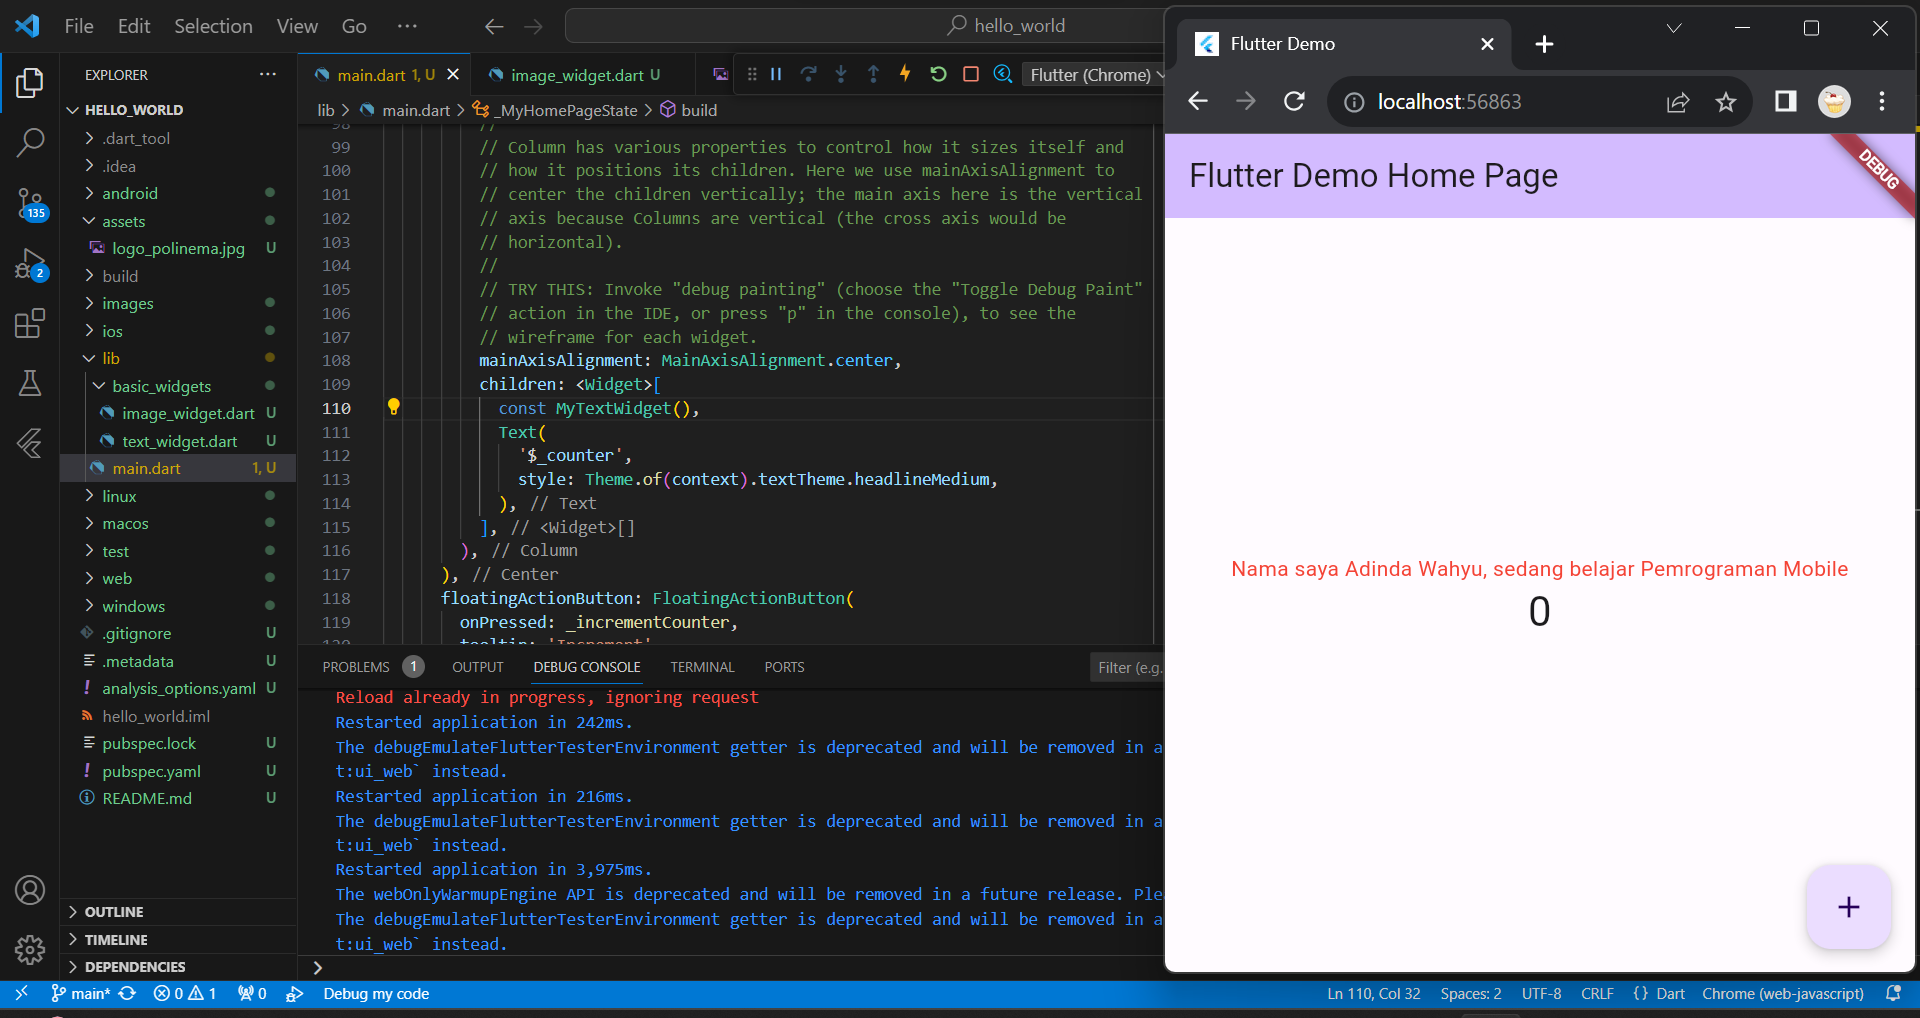
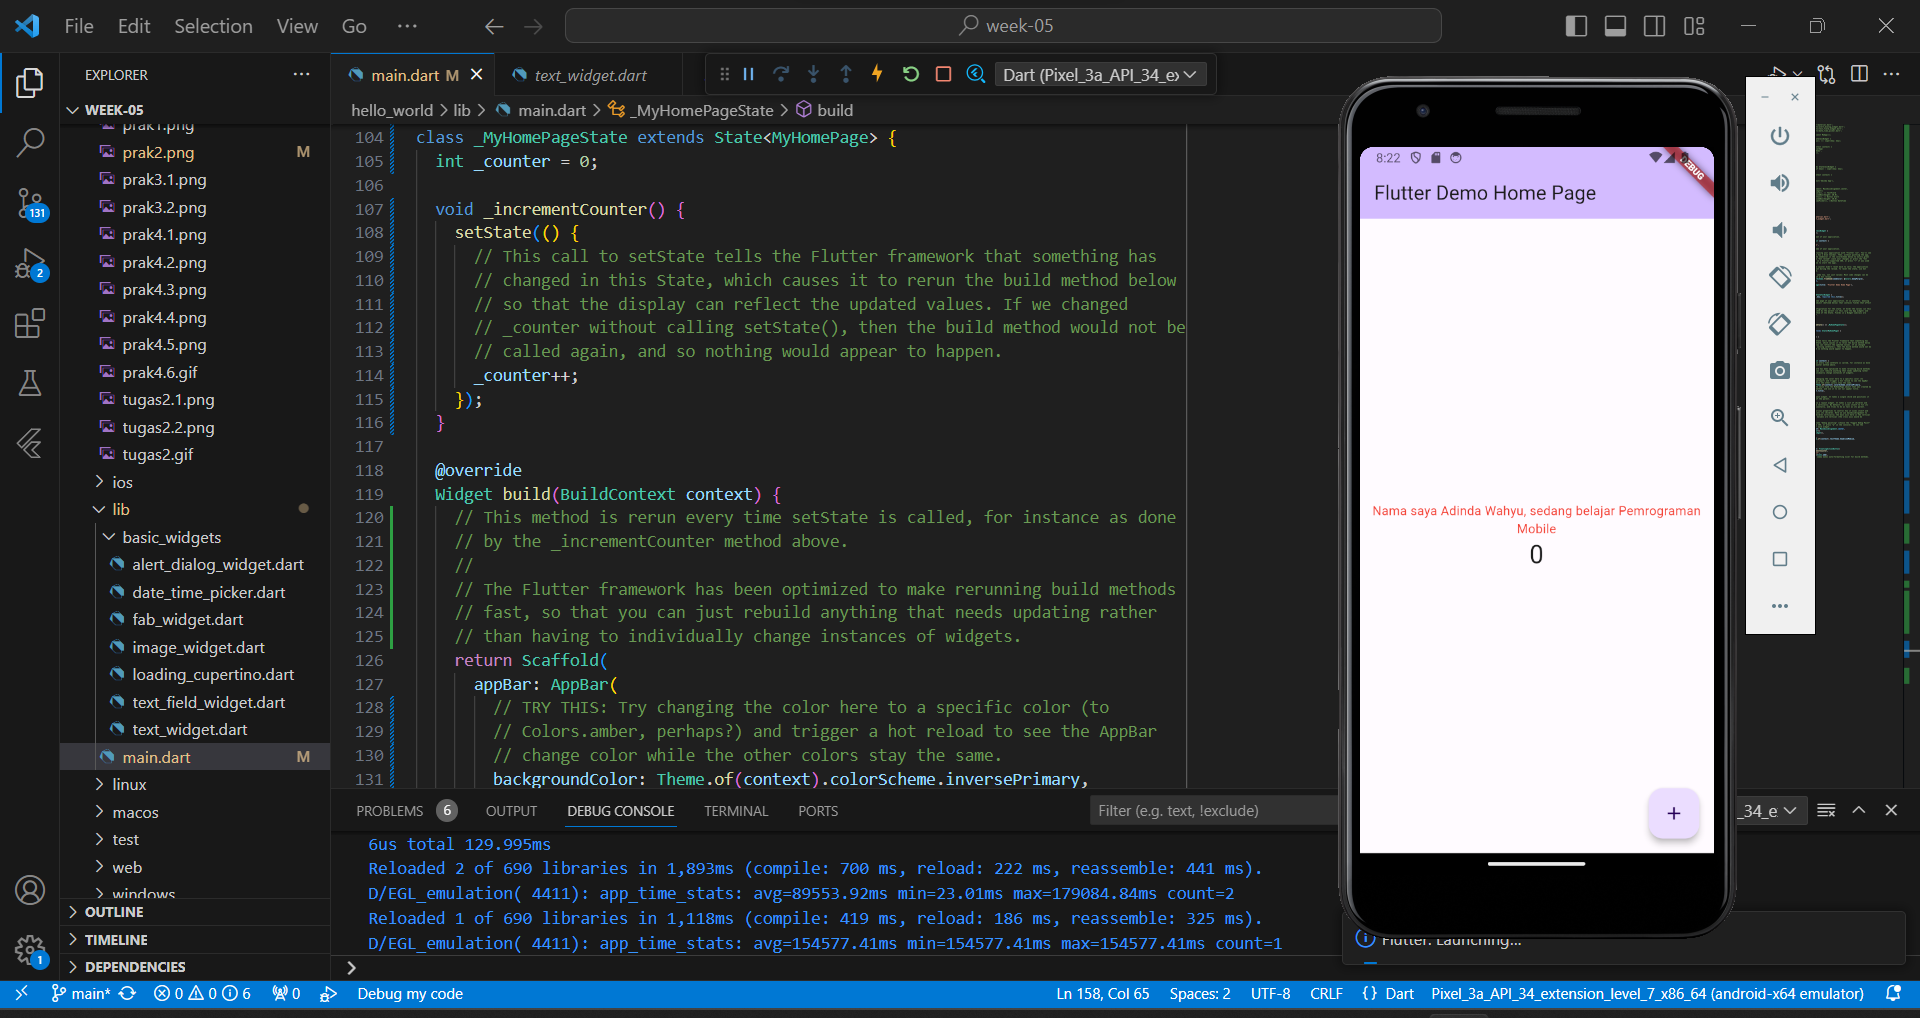
baru

diff --git a/week-05/hello_world/lib/main.dart b/week-05/hello_world/lib/main.dart
@@ -1,45 +1,115 @@
-import 'package:flutter/material.dart';
-import 'basic_widgets/alert_dialog_widget.dart';
-import 'basic_widgets/text_field_widget.dart';
-import 'basic_widgets/date_time_picker.dart';
+// import 'package:flutter/material.dart';
+// // import 'basic_widgets/alert_dialog_widget.dart';
+// // import 'basic_widgets/text_field_widget.dart';
+// // import 'basic_widgets/date_time_picker.dart';
 
-void main() => runApp(const MyApp());
+// void main() => runApp(const MyApp());
+
+// class MyApp extends StatelessWidget {
+//   const MyApp({Key? key}); //: super(key: key);
+
+//   @override
+//   Widget build(BuildContext context) {
+//     return const MaterialApp(
+//       title: 'Flutter Demo',
+//       home: MyHomePage(),
+//     );
+//   }
+// }
+
+// // test
+
+// class MyHomePage extends StatelessWidget {
+//   const MyHomePage({Key? key}) : super(key: key);
+
+//   @override
+//   Widget build(BuildContext context) {
+//     return Scaffold(
+//       appBar: AppBar(
+//         title: const Text('Adinda App'),
+//       ),
+//       body: Center(
+//         child: Column(
+//           mainAxisAlignment: MainAxisAlignment.center,
+//           children: <Widget>[
+//             // MyTextField(), // TextField
+//             // const SizedBox(height: 20.0),
+//             // AlertButton(), // Button Alert
+//             // const SizedBox(height: 20.0),
+//             // MyDateTimePicker(), //Button DateTime
+//           ],
+//         ),
+//       ),
+//     );
+//   }
+// }
+
+import 'package:flutter/material.dart';
+import 'basic_widgets/image_widget.dart';
+import 'basic_widgets/text_widget.dart';
+
+void main() {
+  runApp(const MyApp());
+}
 
 class MyApp extends StatelessWidget {
-  const MyApp({Key? key}) : super(key: key);
+  const MyApp({super.key});
 
+  // This widget is the root of your application.
   @override
   Widget build(BuildContext context) {
-    return const MaterialApp(
-      title: 'Adinda_2141720096',
-      home: MyHomePage(),
+    return MaterialApp(
+      title: 'Flutter Demo',
+      theme: ThemeData(
+        colorScheme: ColorScheme.fromSeed(seedColor: Colors.deepPurple),
+        useMaterial3: true,
+      ),
+      home: const MyHomePage(title: 'Flutter Demo Home Page'),
     );
   }
 }
 
-// test
+class MyHomePage extends StatefulWidget {
+  const MyHomePage({super.key, required this.title});
+  final String title;
 
-class MyHomePage extends StatelessWidget {
-  const MyHomePage({Key? key}) : super(key: key);
+  @override
+  State<MyHomePage> createState() => _MyHomePageState();
+}
+
+class _MyHomePageState extends State<MyHomePage> {
+  int _counter = 0;
+
+  void _incrementCounter() {
+    setState(() {
+      _counter++;
+    });
+  }
 
   @override
   Widget build(BuildContext context) {
     return Scaffold(
       appBar: AppBar(
-        title: const Text('Adinda App'),
+        backgroundColor: Theme.of(context).colorScheme.inversePrimary,
+        title: Text(widget.title),
       ),
       body: Center(
         child: Column(
           mainAxisAlignment: MainAxisAlignment.center,
           children: <Widget>[
-            MyTextField(), // TextField
-            const SizedBox(height: 20.0),
-            AlertButton(), // Button Alert
-            const SizedBox(height: 20.0),
-            MyDateTimePicker(), //Button DateTime
+            const MyImageWidget(),
+            Text(
+              '$_counter',
+              style: Theme.of(context).textTheme.headlineMedium,
+            ),
           ],
         ),
       ),
+      floatingActionButton: FloatingActionButton(
+        onPressed: _incrementCounter,
+        tooltip: 'Increment',
+        child: const Icon(Icons.add),
+      ), // This trailing comma makes auto-formatting nicer for build methods.
     );
   }
 }

diff --git a/week-05/hello_world/lib/basic_widgets/image_widget.dart b/week-05/hello_world/lib/basic_widgets/image_widget.dart
@@ -5,6 +5,6 @@ class MyImageWidget extends StatelessWidget {
 
   @override
   Widget build(BuildContext context) {
-    return const Image(image: AssetImage("logo_polinema.jpg"));
+    return const Image(image: AssetImage("assets/logo_polinema.png"));
   }
 }
